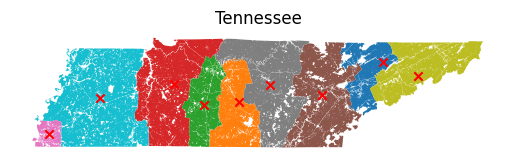
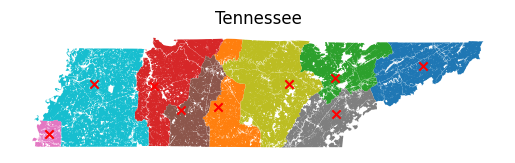
Lika's changes

Changed region(s): [[0.2796, 0.2147, 0.9631, 0.9202], [0.1553, 0.4908, 0.2175, 0.5521], [0.1864, 0.5828, 0.2175, 0.6442]]

diff --git a/temp.py b/temp.py
@@ -1,0 +1,34 @@
+from scipy.ndimage import gaussian_filter
+
+def solve_discrete_gaus(sigma, state: State, centers=None) -> District:
+    """
+    solve the discrete optimal transport problem
+        * df is the dataframe with cols 'pop' and 'geometry'
+        * state_geometry is obvious
+        * K is number of centers
+        * centers are the optional centers
+    returns:
+        * the sinkhorn results, the agglomerated result, the approximated cost 
+    """
+
+    if centers is None:
+        centers = sample_rand(state.df, state.num_districts)
+    K = state.num_districts
+    centroids = state.df['centroid']
+    # apply Gaussian smoothing to population density
+    a_smooth = gaussian_filter(state.df['pop'].values, sigma=sigma)
+    # calculate cost matrix 0.23
+    C = np.array([centroids.distance(p) for p in centers]).T
+    C /= np.max(C)
+    # fill in densities
+    a, b = a_smooth, np.ones(K)/K
+    # solve sinkhorn
+    res = sinkhorn(C, a, b)
+    # calculate centroids weighted by population or not!
+    x, y = centroids.x.values, centroids.y.values
+    normFactor = (state.df['pop'].values.reshape(-1,1)*res).sum(0)
+    center_x = np.sum((x * a_smooth).reshape(-1,1) * res / normFactor, 0)
+    center_y = np.sum((y * a_smooth).reshape(-1,1) * res / normFactor, 0)
+    centers = GeoSeries([Point([a,b]) for a,b in zip(center_x,center_y)])
+    district = District(state, res, centers)
+    return district

diff --git a/State.py b/State.py
@@ -2,6 +2,9 @@ import geopandas
 import matplotlib.pyplot as plt
 from state_district_count import state_district_count
 from state_name_by_number import state_name_by_number
+from scipy.ndimage import gaussian_filter
+
+OPT_SIGMA = 0.22997755
 
 class State():
     def __init__(self, state_num, lvl='tract', discrete=True):
@@ -24,7 +27,7 @@ class State():
                 'county': df['COUNTYFP20'].astype(int),
                 'tract': df['TRACTCE20'].astype(int), 
                 'block': df['BLOCKCE20'].astype(int),
-                'pop': df['POP20'].astype(float)/self.total_people, 
+                'pop': gaussian_filter(df['POP20'].astype(float)/self.total_people, sigma=OPT_SIGMA), 
                 'geometry': df['geometry'], 
                 })
             # create hierarchy of structures
@@ -41,7 +44,7 @@ class State():
         else:
             self.df = geopandas.GeoDataFrame({
                 'block': df['BLOCKCE20'].astype(int),
-                'pop': df['POP20'].astype(float)/self.total_people, 
+                'pop': gaussian_filter(df['POP20'].astype(float)/self.total_people, sigma=OPT_SIGMA), 
                 'area': df['geometry'].area,
                 'geometry': df['geometry'], 
                 })
